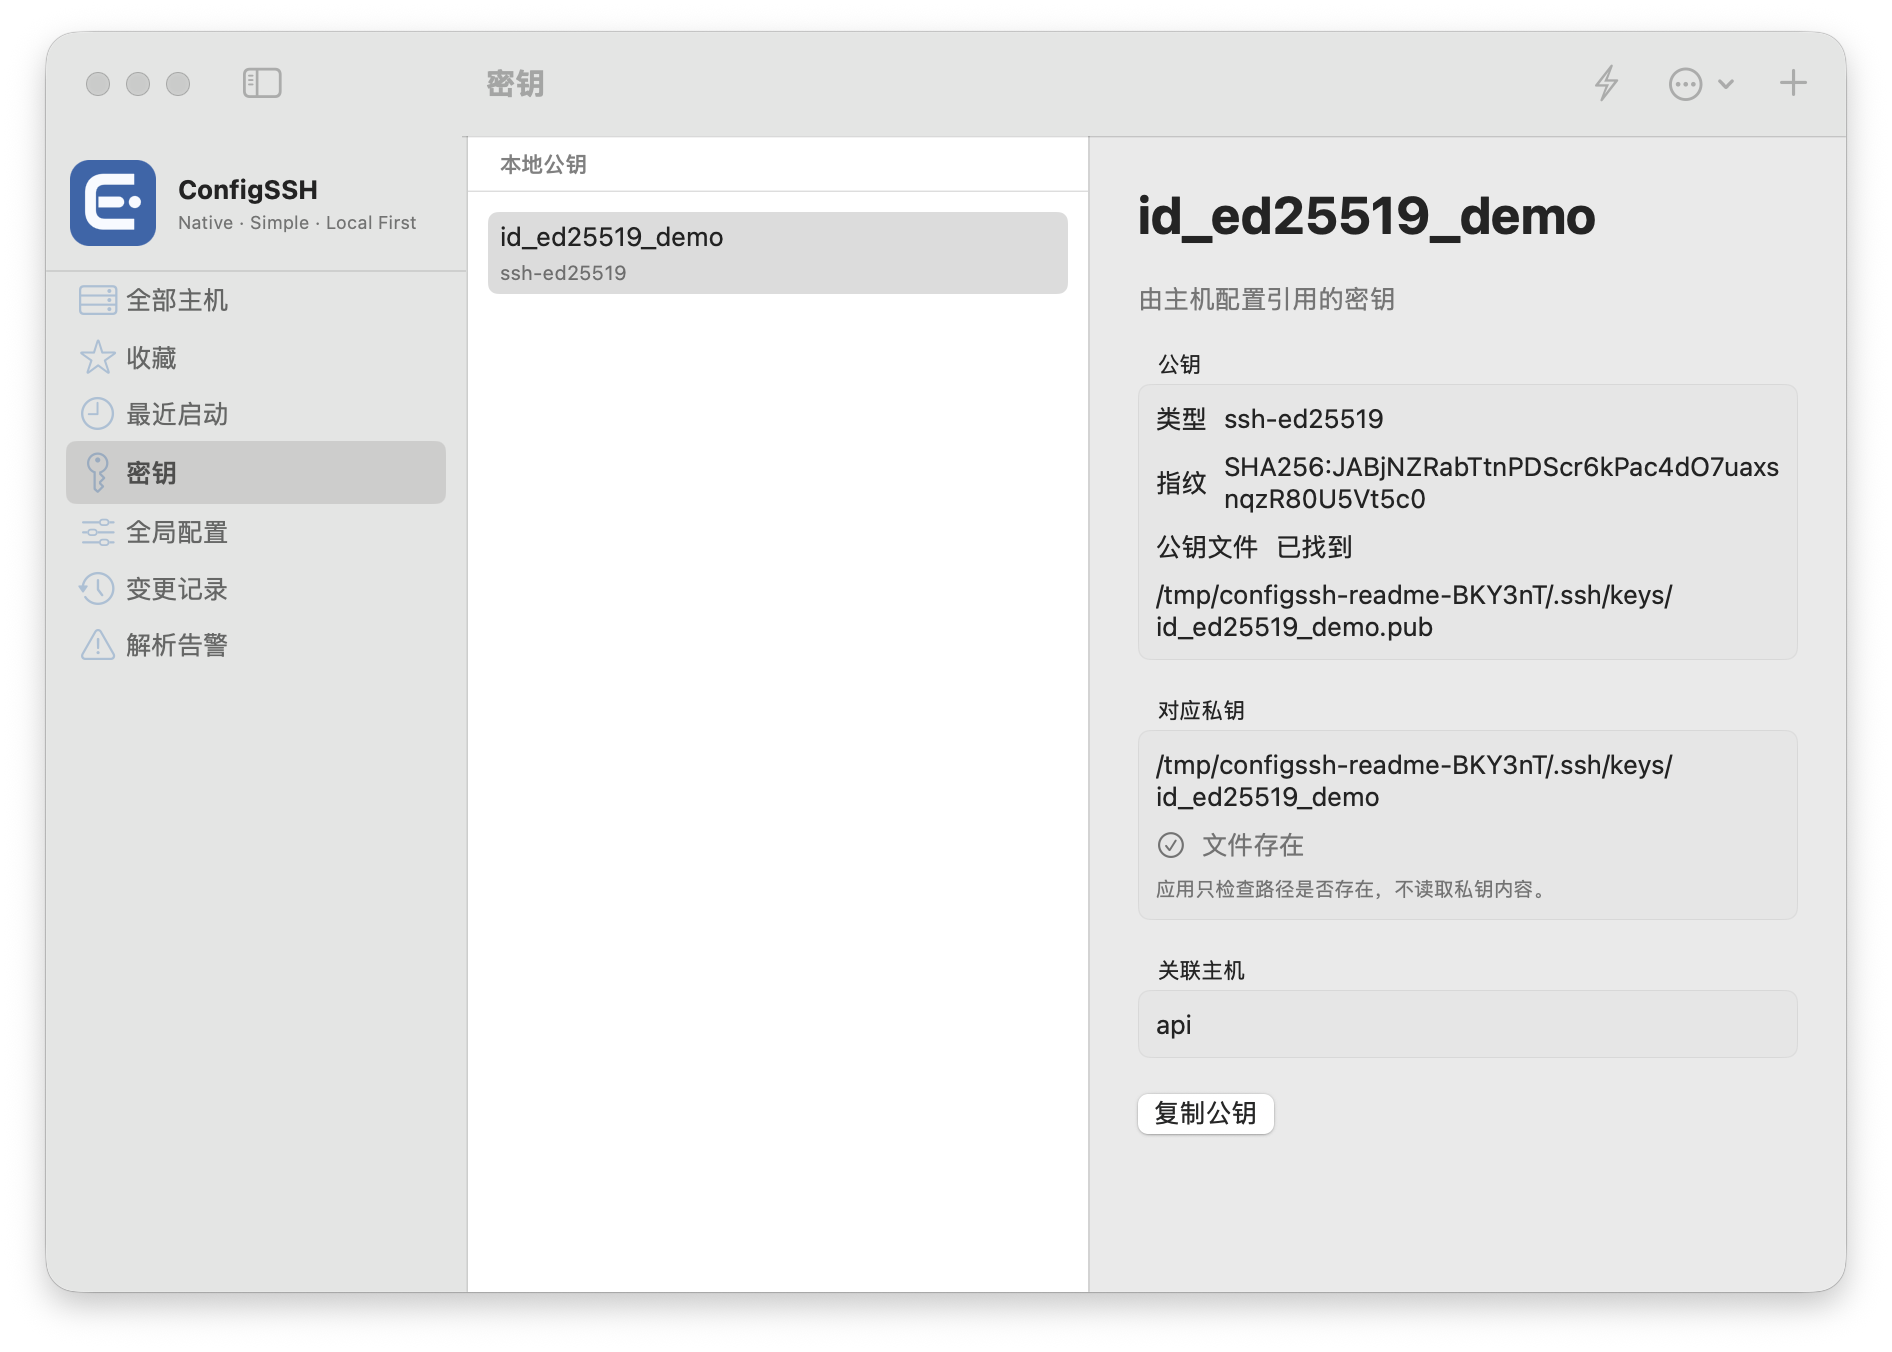
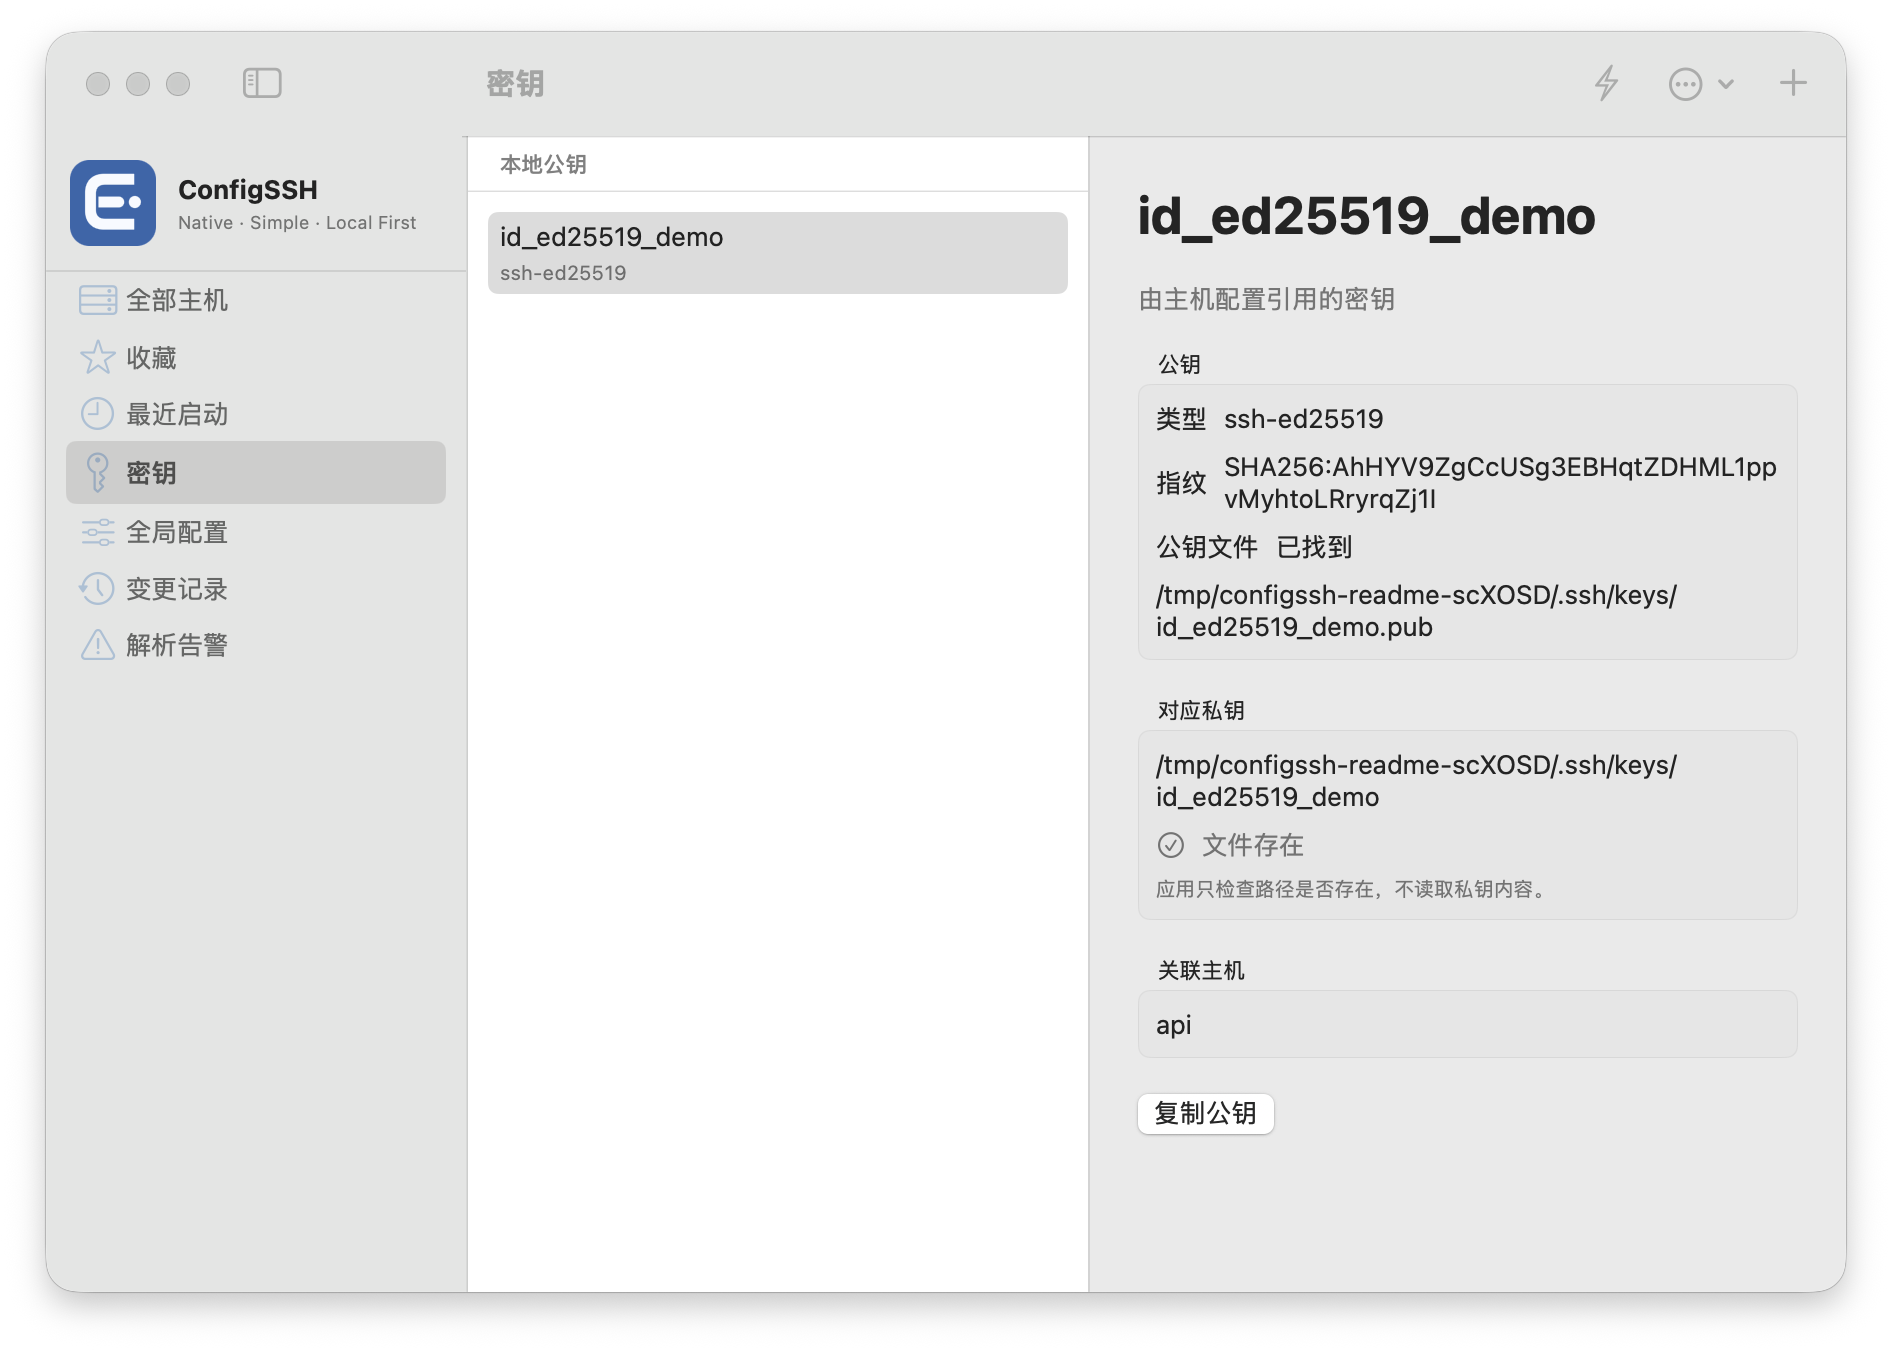
Refresh README screenshots with IdentitiesOnly host detail
Recapture all three README screenshots from one redacted /tmp fixture
using the current Debug build. The host detail now shows IdentityFile
and IdentitiesOnly; global config and keys pages use the same example
data and a throwaway demo key.

Changed region(s): [[0.6549, 0.3417, 0.9355, 0.3728], [0.7484, 0.5592, 0.9043, 0.5902], [0.7484, 0.4349, 0.9043, 0.466]]

diff --git a/MILESTONES.md b/MILESTONES.md
@@ -175,3 +175,8 @@
 - 选择 `yes` 必须已填写 IdentityFile。没有密钥时，界面不切换到 `yes`，并提示先填写或选择密钥；开启后如果又清空密钥，界面显示红色提示。核心层也会拒绝这种计划，并返回同样的说明。例外：导入主机原本已开启且密钥继承自其他规则（如 `Host *`）时，可以保持不变继续编辑。
 - 原值按 OpenSSH 布尔值识别（`yes`/`true`/`no`/`false`，不区分大小写）。值未变化时保留原写法，例如 `True` 不会被改写；无法识别的原值会让该主机拒绝表单编辑，需要在源文件中修改。
 - 验证：`swift test` **118 项通过**，新增 3 项覆盖无密钥拒绝、新增写入、开/关/取消、移除密钥被拒，以及继承密钥时原字节保留；`swift build` 通过；在 `/tmp` 脱敏夹具中启动 Debug 应用无崩溃。未做逐屏界面交互检查。
+
+## 2026 年 11 月 16 日 README 截图更新
+
+- 三张 README 截图改用同一份 `/tmp` 脱敏示例配置，从当前源码的 Debug 应用（`CONFIGSSH_PREVIEW_ROOT` + `CONFIGSSH_PREVIEW_SECTION`）重新截取真实窗口：主机详情新增 `IdentityFile ~/.ssh/keys/id_ed25519_demo` 与 `IdentitiesOnly yes`；全局配置显示示例全局参数及 Include；密钥页显示临时生成的示例 Ed25519 公钥及其关联主机 `api`。
+- 示例数据仅含 `example.net`、文档网段 `192.0.2.21` 与临时目录路径；密钥为截图专用的一次性临时密钥。未读取真实 `~/.ssh`，未执行 SSH 连接或 iCloud 操作。三张图均为 1892 × 1352 PNG，README 图片路径未变。

diff --git a/README.md b/README.md
@@ -10,7 +10,7 @@ Manage SSH Config Visually. Connect Effortlessly.
 
 </div>
 
-![ConfigSSH 的全部主机页面：左侧功能导航，中部按 Engineering 和 Personal 分组并高亮 api 主机，右侧展示 api 的 HostName、User、Port、配置来源和分组](Assets/screenshots/hosts.png)
+![ConfigSSH 的全部主机页面：左侧功能导航，中部按 Engineering 和 Personal 分组并高亮 api 主机，右侧展示 api 的 HostName、User、Port、IdentityFile、IdentitiesOnly、配置来源和分组](Assets/screenshots/hosts.png)
 
 > [!NOTE]
 > ConfigSSH 目前是**预览版**：只能从源码构建，或使用未签名的预发布包。详见[已知限制](#已知限制)。
